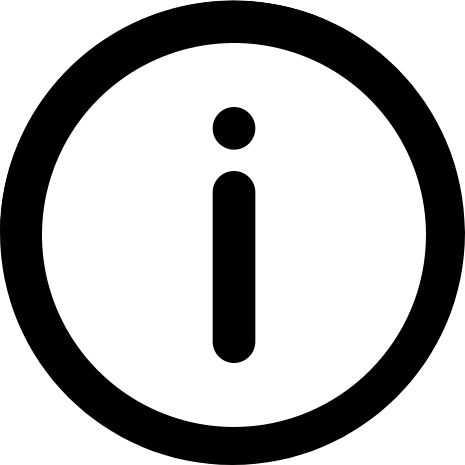
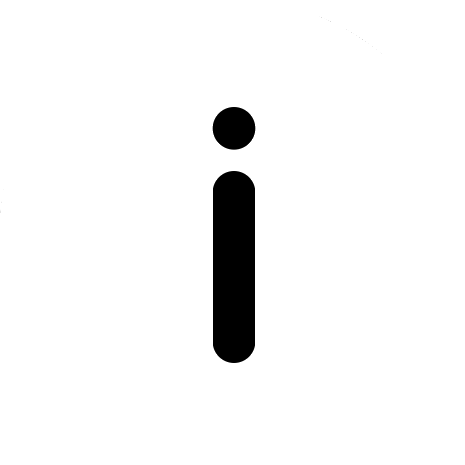
Tooltips, info button, recenter button and ui changes

Changed region(s): [[0.0, 0.0, 1.0, 1.0]]

diff --git a/src/Submission.js b/src/Submission.js
@@ -8,13 +8,14 @@ import powered_by_google from "./images/powered-by-google-on-white.png"
 import Form from 'react-bootstrap/Form'
 import InputGroup from 'react-bootstrap/InputGroup'
 import ListGroup from "react-bootstrap/ListGroup"
-import angle_right from './images/angle-right.png'
-import Card from 'react-bootstrap/Card'
-import Toast from 'react-bootstrap/Toast'
 import Button from "react-bootstrap/Button"
 import ButtonGroup from "react-bootstrap/ButtonGroup"
-import magnifierLogo from "./images/magnifier.png"
+import magnifierIcon from "./images/magnifier.png"
 import Offcanvas from 'react-bootstrap/Offcanvas'
+import infoIcon from './images/information.png'
+import recenterIcon from './images/recenter.png'
+import OverlayTrigger from "react-bootstrap/OverlayTrigger"
+import Tooltip from "react-bootstrap/Tooltip"
 
 export default function Submission() {
 
@@ -26,6 +27,7 @@ export default function Submission() {
   const [placementIdx, setPlacementIdx] = useState(0)
   const [submitButtonState, setSubmitButtonState] = useState(true)
   const [search, setSearch] = useState(false)
+  const [info, setInfo] = useState(false)
 
   // key event handling
   const useKeyPress = (targetKey) => {
@@ -131,32 +133,6 @@ export default function Submission() {
   }
   const initialState = { selectedIndex: -1 };
 
-  function InfoBox() {
-    const text = () => {
-      if (!unconfirmedMarker && placementIdx === confirmedMarkers.length) {
-        return "Click on the map to place an origin marker"
-      } else if (unconfirmedMarker && placementIdx === confirmedMarkers.length) {
-        return "Click on the map to change the location of the marker. Double click the bouncing marker to confirm its location"
-      } else if (!unconfirmedMarker && confirmedMarkers[placementIdx].length < 2) {
-        return "Click on the map to place the destination marker"
-      } else if (unconfirmedMarker && confirmedMarkers[placementIdx].length < 2) {
-        return "Click on the map to change the location of the marker. Double click the bouncing marker to confirm its location"
-      } else if (unconfirmedMarker && placementIdx !== confirmedMarkers.length) {
-        return "Click on the map to change the location of the marker.Double click the bouncing marker to confirm its location"
-      }
-      return ""
-    }
-
-    return (
-      <div className='submission-infobox'>
-        <Card body>
-          <img width={25} height={25} src={angle_right} alt='Todo:' />
-          {text()}
-        </Card>
-      </div>
-    )
-  }
-
   function MarkerInfoWindow({ marker }) {
     const removeConfirmedMarker = () => {
       const confirmedMarkersArr = confirmedMarkers
@@ -206,7 +182,7 @@ export default function Submission() {
       }
     }
 
-    if (marker != unconfirmedMarker && marker == selected) {
+    if (marker !== unconfirmedMarker && marker === selected) {
       return (
         <ButtonGroup vertical size="sm">
           <Button variant="outline-primary" onClick={onEditClick} tabIndex={-1}>Edit</Button>
@@ -217,6 +193,11 @@ export default function Submission() {
   }
 
   function SubmitButton() {
+
+    const handleClick = () => {
+      console.log('submit stuff to server')
+    }
+
     if (!unconfirmedMarker && placementIdx === confirmedMarkers.length) {
       setSubmitButtonState(false)
     } else {
@@ -224,7 +205,7 @@ export default function Submission() {
     }
     return (
       <div className="submit-button">
-        <Button id='submission-button' variant='success' disabled={submitButtonState}>Submit</Button>
+        <Button id='submission-button' variant='success' disabled={submitButtonState} onClick={handleClick}>Submit</Button>
       </div>
     )
   }
@@ -372,11 +353,93 @@ export default function Submission() {
     )
   }
 
-  function SearchIcon() {
+  function InfoOffcanvas() {
     return (
-      <a className="submission-search-icon" onClick={() => { setSearch(true) }}>
-        <img width={60} height={60} src={magnifierLogo} alt='Search' />
-      </a>
+      <Offcanvas show={info} onHide={() => { setInfo(false) }}>
+        <Offcanvas.Header closeButton>
+          <Offcanvas.Title>Info</Offcanvas.Title>
+        </Offcanvas.Header>
+        <Offcanvas.Body>
+          <Offcanvas.Title>Basic stuff</Offcanvas.Title>
+          <ul>
+            <li>Click on the map to spawn a bouncing marker.</li>
+            <li>Click on the map to change the location of a bouncing marker if one exists.</li>
+            <li>Double click a bouncing marker to confirm its location.</li>
+            <li>Right click on a placed marker to reveal options to edit its location or remove it and its pair completely.</li>
+          </ul>
+          <Offcanvas.Title>Helpful to know</Offcanvas.Title>
+          <ul>
+            <li>Press the <img width={20} height={20} src={magnifierIcon} alt='Search' /> button to quickly pan to a desired location.</li>
+            <li>Press the <img width={20} height={20} src={magnifierIcon} alt='Search' /> button to re-center the map onto an existing bouncing marker.</li>
+            <li>Press the Submit button to commit your transit wishes.</li>
+          </ul>
+          <Offcanvas.Title>A few rules</Offcanvas.Title>
+          <ul>
+            <li>If there is a bouncing marker on the map, editing or removing a placed marker is not allowed until the bouncing marker is placed.</li>
+            <li>Submitting data will not be available until all bouncing markers have been placed and all markers are in pairs</li>
+          </ul>
+        </Offcanvas.Body>
+      </Offcanvas>
+    )
+  }
+
+  function RecenterButton() {
+
+    const renderTooltip = (props) => (
+      <Tooltip id="button-tooltip" {...props}>
+        Recenter
+      </Tooltip>
+    )
+
+    return (
+      <OverlayTrigger
+        placement="right"
+        delay={{ show: 200, hide: 300 }}
+        overlay={renderTooltip}>
+        <span className="submission-recenter-icon">
+          <img width={60} height={60} src={recenterIcon} alt='Recenter' />
+        </span>
+      </OverlayTrigger>
+    )
+  }
+
+  function InfoButton() {
+
+    const renderTooltip = (props) => (
+      <Tooltip id="button-tooltip" {...props}>
+        Help
+      </Tooltip>
+    )
+
+    return (
+      <OverlayTrigger
+        placement="right"
+        delay={{ show: 200, hide: 300 }}
+        overlay={renderTooltip}>
+        <span className="submission-info-icon" onClick={() => { setInfo(true) }}>
+          <img width={60} height={60} src={infoIcon} alt='Info' />
+        </span>
+      </OverlayTrigger>
+    )
+  }
+
+  function SearchButton() {
+
+    const renderTooltip = (props) => (
+      <Tooltip id="button-tooltip" {...props}>
+        Search locations
+      </Tooltip>
+    )
+
+    return (
+      <OverlayTrigger
+        placement="right"
+        delay={{ show: 200, hide: 300 }}
+        overlay={renderTooltip}>
+        <span className="submission-search-icon" onClick={() => { setSearch(true) }}>
+          <img width={60} height={60} src={magnifierIcon} alt='Search' />
+        </span>
+      </OverlayTrigger>
     )
   }
 
@@ -390,8 +453,10 @@ export default function Submission() {
         <Header />
       </div>
       <SearchOffcanvas />
-      <SearchIcon />
-      <InfoBox />
+      <SearchButton />
+      <InfoButton />
+      <InfoOffcanvas />
+      <RecenterButton />
       <GoogleMap
         id="google-map"
         mapContainerClassName='submission-map-container'

diff --git a/src/Submission.css b/src/Submission.css
@@ -21,13 +21,6 @@
   cursor: pointer;
 }
 
-.submission-infobox {
-  position: absolute;
-  z-index: 2;
-  top: 80px;
-  left: 1%
-}
-
 .submit-button {
   position: absolute;
   z-index: 5;
@@ -47,8 +40,8 @@
 .submission-search-icon {
   position: absolute;
   z-index: 2;
-  right: 20px;
-  top: 80px;
+  left: 20px;
+  top: 160px;
   border-radius: 60px;
   cursor: pointer;
   outline: 3px solid white;
@@ -56,6 +49,38 @@
 }
 
 .submission-search-icon:hover {
+  transition: ease .5s;
+  outline: 3px solid black;
+}
+
+.submission-info-icon {
+  position: absolute;
+  z-index: 2;
+  left: 20px;
+  top: 85px;
+  border-radius: 60px;
+  cursor: pointer;
+  outline: 3px solid white;
+  transition: ease .5s;
+}
+
+.submission-info-icon:hover {
+  transition: ease .5s;
+  outline: 3px solid black;
+}
+
+.submission-recenter-icon {
+  position: absolute;
+  z-index: 2;
+  left: 20px;
+  top: 235px;
+  border-radius: 60px;
+  cursor: pointer;
+  outline: 3px solid white;
+  transition: ease .5s;
+}
+
+.submission-recenter-icon:hover {
   transition: ease .5s;
   outline: 3px solid black;
 }
